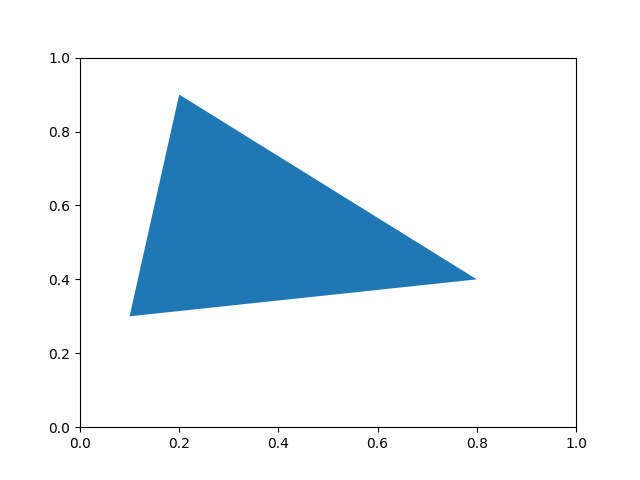
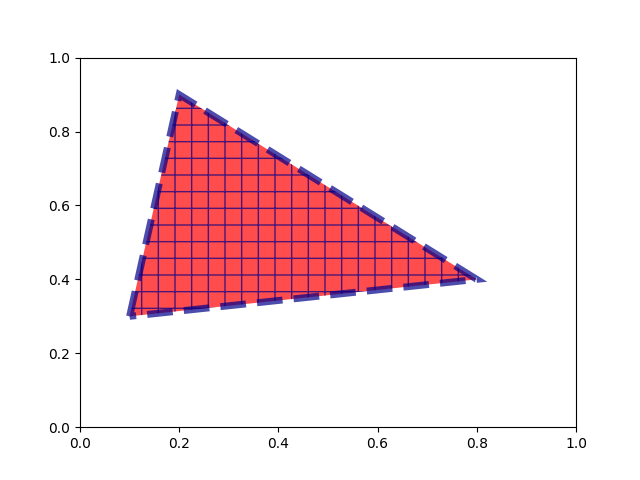
matplotlib patches

Changed region(s): [[0.1875, 0.1875, 0.75, 0.6875]]

diff --git a/e2eml.school/matplotlib_patches.py b/e2eml.school/matplotlib_patches.py
@@ -7,6 +7,17 @@ path = [
     [.2, .9],
     [.8, .4],
 ]
-ax.add_patch(patches.Polygon(path))
-fig.savefig("patch.png")
 
+ax.add_patch(patches.Polygon(
+  path,
+  alpha=.7,
+  edgecolor="darkblue",
+  facecolor="red",
+  hatch="+",
+  joinstyle="miter",
+  linestyle="--",
+  linewidth=5,
+))
+
+
+fig.savefig("patch.png")
